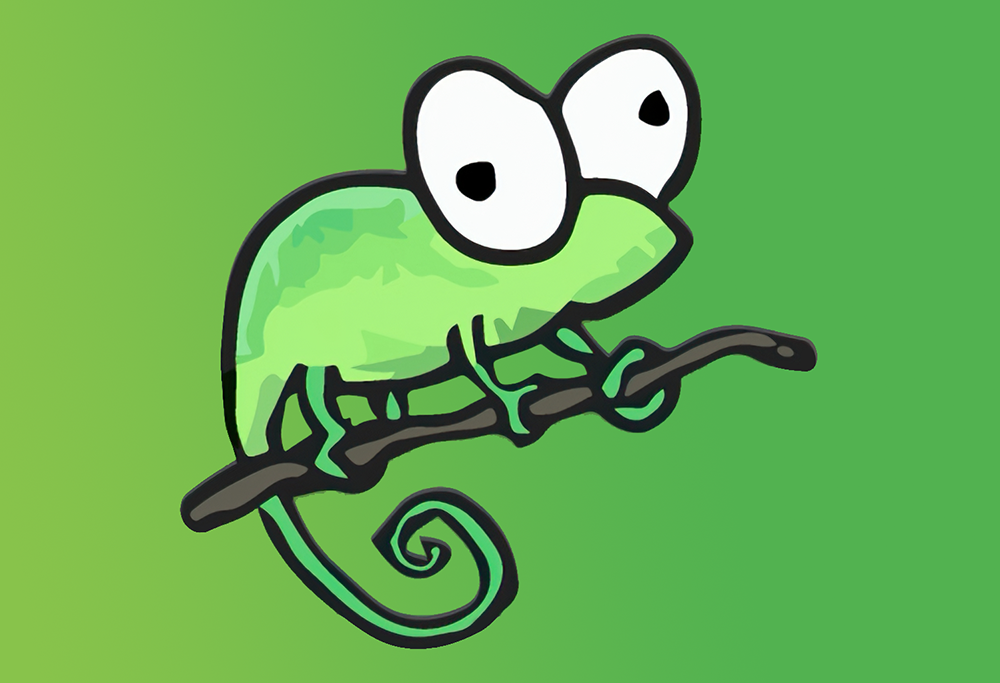
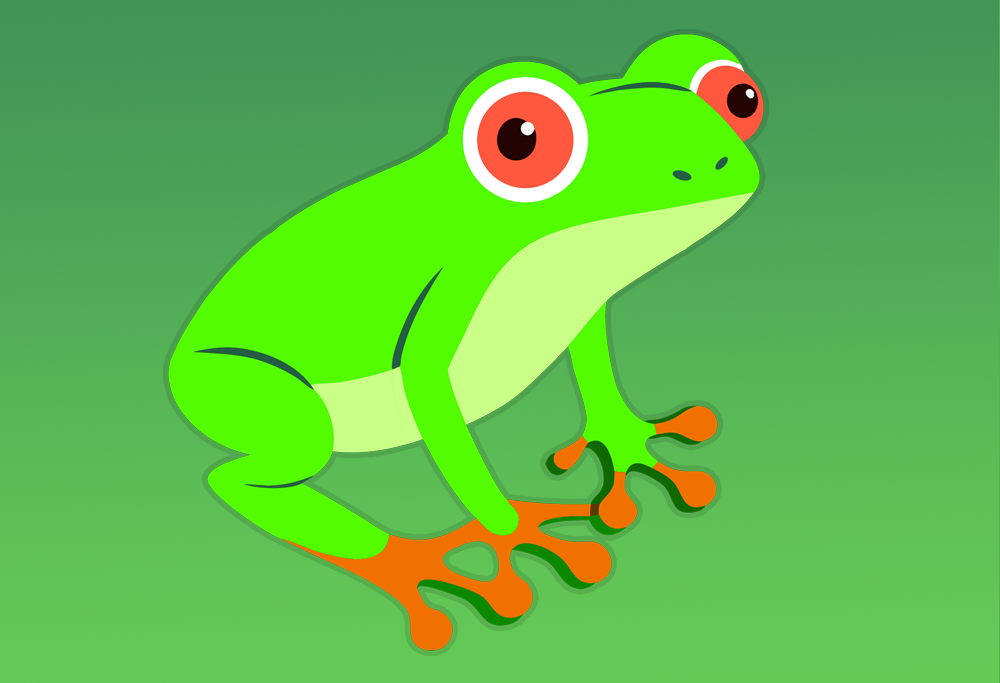
Rebrand Notepad++ to Nextpad++ on project pages

diff --git a/projects/NppBeads.md b/projects/NppBeads.md
@@ -1,26 +1,18 @@
 ---
-title: "Beads Viewer for Notepad++ and macOS"
+title: "Beads Viewer for Nextpad++ and macOS"
 date: 2026-04-28
 description: Issue Tracking That Works for AI Agents
-tags: [notepad++, ai, beads, beads viever]
+tags: [nextpad++, ai, beads, beads viever]
 ---
 
-![Chameleon walking on Beads](beads-v1/beads-walking-chameleon2.png)
+![Chameleon walking on Beads](beads-v1/beads-walking-frog.png)
 *Chameleon walking on Beads*
-
-<div style="text-align: center; margin-top: 2rem;">
-<a href="https://notepad-plus-plus-mac.org/news/" target="_blank" rel="noopener noreferrer" style="display: inline-flex; align-items: center; gap: 0.5rem; background-color: #34C759; color: white; font-weight: 600; font-size: 1.1rem; padding: 0.85rem 2.2rem; border-radius: 999px; text-decoration: none; transition: background-color 0.2s;">
-<svg width="22" height="22" viewBox="0 0 24 24" fill="none" stroke="currentColor" stroke-width="2.5" stroke-linecap="round" stroke-linejoin="round"><path d="M3 16.5v2.25A2.25 2.25 0 005.25 21h13.5A2.25 2.25 0 0021 18.75V16.5M16.5 12L12 16.5m0 0L7.5 12m4.5 4.5V3"/></svg>
-Download for macOS
-</a>
-</div>
-
 
 # Beads - a new Jira for Agentic AI
 
-The Notepad++ Beads plugin and the native macOS Beads viewer were inspired by two amazing people, [Steve Yegge](https://www.linkedin.com/in/steveyegge/) and [Jeffrey Emanuel](https://www.linkedin.com/in/jeffreyemanuel/), who did most of the heavy lifting. Steve built Beads. Jeff designed and built the original Beads Viewer, which I adapted to work as a plugin in Notepad++ and later decided to make into a standalone Mac app so people are free to use it without any editor. 
+The Nextpad++ Beads plugin and the native macOS Beads viewer were inspired by two amazing people, [Steve Yegge](https://www.linkedin.com/in/steveyegge/) and [Jeffrey Emanuel](https://www.linkedin.com/in/jeffreyemanuel/), who did most of the heavy lifting. Steve built Beads. Jeff designed and built the original Beads Viewer, which I adapted to work as a plugin in Nextpad++ and later decided to make into a standalone Mac app so people are free to use it without any editor. 
 
-However, the Notepad++ Beads Viewer is not only a viewer. It's more advanced and incorporates the work of Justin Dillon, who built the Beads extension for Visual Studio. The Beads Viewer I’m releasing today is likely more advanced than most Beads plugins available today. It includes editing and real-time sync functionality and works with both Beads JSONL files in read-only mode and Dolt DB in read-write mode.
+However, the Nextpad++ Beads Viewer is not only a viewer. It's more advanced and incorporates the work of Justin Dillon, who built the Beads extension for Visual Studio. The Beads Viewer I’m releasing today is likely more advanced than most Beads plugins available today. It includes editing and real-time sync functionality and works with both Beads JSONL files in read-only mode and Dolt DB in read-write mode.
 
 Please note that some screenshots contain examples of Beads from Jeff's public github product repos. 
 
@@ -34,8 +26,8 @@ The reason is that an agent has a context window, basically a fixed amount of me
 Beads is institutional memory for agents. NppBeads is what makes it pleasant to use without leaving your editor.
 
 
-![Notepad++ Beads Viewer Plugin Graph View](beads-v1/screen01.png)
-*Notepad++ Beads Viewer Plugin Graph View*
+![Nextpad++ Beads Viewer Plugin Graph View](beads-v1/screen01.png)
+*Nextpad++ Beads Viewer Plugin Graph View*
 
 
 
@@ -96,8 +88,8 @@ When the agent's internal memory gets compressed an hour later, that information
 
 Beads is more than a flat list. Each issue can be connected to others using ten different relationship types: `blocks`, `parent-child`, `conditional-blocks`, `waits-for`, `related`, `tracks`, `discovered-from`, `caused-by`, `validates`, and `supersedes`. That vocabulary is enough to describe how real engineering shapes itself: a child issue under an epic, a blocker that only applies in one condition, a follow-up that was found while fixing something else, a validation issue that confirms an earlier fix held.
 
-![Notepad++ Beads Viewer Plugin Graph View](beads-v1/dependency-graph.png)
-*Sample Notepad++ Beads Graph View*
+![Nextpad++ Beads Viewer Plugin Graph View](beads-v1/dependency-graph.png)
+*Sample Nextpad++ Beads Graph View*
 
 
 These relationships form a graph. These graphs can be huge. The graph powers a single useful question.. what can be worked on right now?
@@ -123,8 +115,8 @@ A few details make this real:
 
 **Review and rollback.** Because the whole store is in Dolt and Dolt is in the repo, the orchestration log is a git log. `git log .beads/` is a chronological record of every claim, every status change, every comment. `git blame` on a closed issue tells you which agent closed it and when. If an afternoon of agent work produced bad results, `git revert` on the relevant range of commits rolls the tracker state back atomically, and the code it was working on rolls back in the same operation. You watch the Kanban board in NppBeads fill with in-progress cards and drain into closed without telling any of the agents what to do.
 
-![Notepad++ Beads Viewer Plugin Board View](beads-v1/screen02.png)
-*Notepad++ Beads Viewer Plugin Board View*
+![Nextpad++ Beads Viewer Plugin Board View](beads-v1/screen02.png)
+*Nextpad++ Beads Viewer Plugin Board View*
 
 A point worth making up front, because it changes how you think about the whole tool: in a Beads-driven workflow, **most of the writing and most of the reading is done by agents, not humans.** Humans file the load-bearing issues. Epics. High-priority bugs the agent can't be trusted to scope on its own. Decisions that need a person to weigh in. Agents do everything else. 
 
@@ -225,27 +217,27 @@ Same pattern teams have used for years to bridge Jira and GitHub Issues. The dif
 Beads is like a red pill in the age of AI. You want to move at a slower pace, take a blue pill and stay on Jira. You want things to move at blazing speed, look at Beads. Any reporting you can think of can be added into the Beads Viewer/Editor to make it look like Jira and have executive level views that will refresh in real-time.
 
 
-## Where Notepad++ Beads comes in
+## Where Nextpad++ Beads comes in
 
-Beads itself is command line only. NppBeads adds a visual layer inside Notepad++. The "UI" is a docked side panel (a webview running locally inside the editor) that shows six different surfaces, all driven by `bd` calls under the hood.
+Beads itself is command line only. NppBeads adds a visual layer inside Nextpad++. The "UI" is a docked side panel (a webview running locally inside the editor) that shows six different surfaces, all driven by `bd` calls under the hood.
 
 A critical detail: NppBeads or macOS Beads app do not replace Beads. They are thin wrappers. Every read goes through `bd list --json` or `bd show --json`. Every write goes through `bd create`, `bd update`, `bd close`, `bd comment add`, or friends. There's no NppBeads database, no separate sync process, no caching beyond what `bd` itself does. If you do something via NppBeads, the next person who runs `bd list` from a terminal sees it. If a teammate's agent runs `bd update` from a script, your panel refreshes within two seconds.
 
 That hard rule (everything is `bd`) means NppBeads doesn't lock you in. Use it in the morning, switch to a terminal in the afternoon, let an agent run overnight, come back the next morning. There's no merge conflict because there's nothing to merge. The single source of truth is whatever `bd` says. NppBeads is one of several front ends. 
 
-The plugin and macOS app exist for the same reason: to remove a context switch. Dropping out of Notepad++ or MacViewer into a terminal to run `bd update` is small individually but multiplicative across a day. After a couple of weeks of running Beads from the terminal alone, the friction wins and people stop updating statuses. A stand-alone macOS viewer can be amazing for management to monitor a project.   
+The plugin and macOS app exist for the same reason: to remove a context switch. Dropping out of Nextpad++ or MacViewer into a terminal to run `bd update` is small individually but multiplicative across a day. After a couple of weeks of running Beads from the terminal alone, the friction wins and people stop updating statuses. A stand-alone macOS viewer can be amazing for management to monitor a project.   
 
 
 ## Installing Beads Plugin
 
-Best way to install NppBeads plugin from the Notepad++ Plugins Admins
+Best way to install NppBeads plugin from the Nextpad++ Plugins Admins
 
-![Notepad++ Beads Plugin Admin](beads-v1/plugin-admin.png)
-*Notepad++ Beads in Plugin Admin*
+![Nextpad++ Beads Plugin Admin](beads-v1/plugin-admin.png)
+*Nextpad++ Beads in Plugin Admin*
 
-Restart Notepad++. The plugin shows up as a main toolbar icon 
+Restart Nextpad++. The plugin shows up as a main toolbar icon 
 
-![Notepad++ Beads Plugin launched first time](beads-v1/toolbar-icon.gif) and under `Plugins → NppBeads` with three menu items at first (Show Beads panel, Reload issues, Reveal .beads/ in Finder) and a few more once you've used it (Jump to bead under caret, Copy bead id, Create issue from selection). The default keyboard shortcut for opening the panel is Cmd-Option-Shift-B. If that conflicts with anything in your setup, rebind via the standard NPP shortcut manager.
+![Nextpad++ Beads Plugin launched first time](beads-v1/toolbar-icon.gif) and under `Plugins → NppBeads` with three menu items at first (Show Beads panel, Reload issues, Reveal .beads/ in Finder) and a few more once you've used it (Jump to bead under caret, Copy bead id, Create issue from selection). The default keyboard shortcut for opening the panel is Cmd-Option-Shift-B. If that conflicts with anything in your setup, rebind via the standard NPP shortcut manager.
 
 
 If you'd rather have a stand-alone macOS Beads Viewer application, you can download the 2MB DMG install (top of this page), launch it and simply drag the Beads Viewer App into your Mac Applications folder.
@@ -263,17 +255,17 @@ bd version   # confirms install
 
 Without `bd` the plugin runs in read-only mode. It reads `.beads/issues.jsonl` (the export file Beads maintains for compatibility) and shows you the data, but every edit attempt fails with a "ReadOnly" error. The status bar at the bottom of the panel tells you which mode you're in: `bd v1.0.2` or similar means full mode, `read-only (JSONL)` means fallback.
 
-If you launch Notepad++ from Finder rather than from a terminal, NPP inherits a sparse `PATH` that often doesn't include `/opt/homebrew/bin`. NppBeads handles this by checking common install locations directly (`/opt/homebrew/bin`, `/usr/local/bin`, `~/bin`, `~/.local/bin`, `~/go/bin`) before falling back to the inherited `PATH`. So `brew install beads` followed by an NPP relaunch should just work.
+If you launch Nextpad++ from Finder rather than from a terminal, NPP inherits a sparse `PATH` that often doesn't include `/opt/homebrew/bin`. NppBeads handles this by checking common install locations directly (`/opt/homebrew/bin`, `/usr/local/bin`, `~/bin`, `~/.local/bin`, `~/go/bin`) before falling back to the inherited `PATH`. So `brew install beads` followed by an NPP relaunch should just work.
 
 
-NppBeads Notepad++ plugin and macOS App have exactly the same functionality, codebase and live in the same repo. I make updates to NppBeads plugin, the macOS app gets all updates automatically. They look exactly the same. 
+NppBeads Nextpad++ plugin and macOS App have exactly the same functionality, codebase and live in the same repo. I make updates to NppBeads plugin, the macOS app gets all updates automatically. They look exactly the same. 
 
 ## The first time you open it
 
 Open the panel with Cmd-Option-Shift-B (or Plugins → NppBeads → Show Beads panel). You land on the Dashboard view by default.
 
 
-![Notepad++ Beads Plugin launched first time](beads-v1/open-first-time.png) *Notepad++ Beads Plugin launched first time*
+![Nextpad++ Beads Plugin launched first time](beads-v1/open-first-time.png) *Nextpad++ Beads Plugin launched first time*
 
 If a file is open that lives anywhere inside a Beads project (the panel walks up from the file's directory looking for a `.beads/` sibling, stopping at your home folder), the plugin auto-binds to that project. The status bar shows the project name, issue counts (open, blocked, closed, total), and the backend mode.
 
@@ -347,7 +339,7 @@ The two metrics most useful in practice:
 
 **Betweenness centrality** colors bridge nodes red. A high-betweenness issue connects otherwise-independent regions of the graph. Resolving it unlocks parallel work in streams that would otherwise stay parallel-but-stuck. Different from PageRank: PageRank values depth, betweenness values bridging. They surface different short lists.
 
-![Graph view](beads-v1/graph-view01.png) *Graph view in Notepad++ Beads plugin pointed to github.com/Dicklesworthstone beads_rust repo*
+![Graph view](beads-v1/graph-view01.png) *Graph view in Nextpad++ Beads plugin pointed to github.com/Dicklesworthstone beads_rust repo*
 
 The graph is also where the panel's theme awareness shows up. Switch to light mode (theme button in the toolbar) and the canvas redraws with a white background and a darkened version of every status, priority, and accent color, so contrast remains readable. Same graph, dark or light, within a couple of frames.
 
@@ -355,7 +347,7 @@ The graph is also where the panel's theme awareness shows up. Switch to light mo
 
 The kanban surface. Four columns by default: Open, In Progress, Blocked, Closed. Each card is an issue. Drag a card to a new column, that column's status is committed via `bd update --status`. Optimistic UI: the card moves immediately, then either confirms (toast) or rolls back (toast plus original position) depending on what `bd` reports. 
 
-![The Board view](beads-v1/board-view01.png) *The Board view in Notepad++ Beads plugin pointed to github.com/Dicklesworthstone beads_rust repo*
+![The Board view](beads-v1/board-view01.png) *The Board view in Nextpad++ Beads plugin pointed to github.com/Dicklesworthstone beads_rust repo*
 
 There's a **Raw / Effective** toggle in the top-left header of the Board. It changes which column each card lives in without touching the underlying data, and it's worth understanding why the distinction exists.
 
@@ -377,7 +369,7 @@ The view is read-only on click on purpose. Nothing in a row navigates you to the
 Activity also drives the "● N new" indicator in the status bar. Every time you visit Activity, the panel records the current timestamp. Later updates that happen after that timestamp (your own edits, agents, teammates) get counted in the badge. Visiting Activity again resets the counter. Quitting and reopening NPP preserves the count correctly across sessions.
 
 ![The Activity view](beads-v1/activity-view01.png)
-*The Activity view in Notepad++ Beads plugin pointed to github.com/Dicklesworthstone beads_rust repo*
+*The Activity view in Nextpad++ Beads plugin pointed to github.com/Dicklesworthstone beads_rust repo*
 
 ## Creating and editing beads
 
@@ -466,7 +458,7 @@ The second is a two-second poll of `bd list --all --json`. This catches changes 
 
 Both mechanisms are coordinated. They both call the same internal "refresh" path, which is idempotent and reconciles optimistic UI state with confirmed state.
 
-The poll pauses when Notepad++ isn't focused. Switch to a browser, the panel stops polling. Come back, the poll resumes and picks up any changes within one cycle. This matters mostly for the case where an agent is running in a terminal you're not watching: you don't want NPP burning `bd` processes while you're working in another app.
+The poll pauses when Nextpad++ isn't focused. Switch to a browser, the panel stops polling. Come back, the poll resumes and picks up any changes within one cycle. This matters mostly for the case where an agent is running in a terminal you're not watching: you don't want NPP burning `bd` processes while you're working in another app.
 
 There's also a "drag-guard" on the Board view. If a refresh fires while you're mid-drag of a card, the render is deferred until your drag ends. Without this, the dragged card's DOM node would get replaced by the refresh and the drag would die in your hand. An eight second watchdog releases the guard if the drag-end event somehow doesn't fire (drop outside the window, modifier-key issues).
 
@@ -492,7 +484,7 @@ A few things NppBeads doesn't do, on purpose or out of necessity:
 
 - **No cross-repo aggregated view.** Each `.beads/` is independent. If   you work across two repos with two trackers, you switch projects in   the dropdown to switch trackers. There's no "all my open work   across all projects" view. Beads supports cross-repo dependencies   via `external:other-project:bd-X` references, but NppBeads doesn't   render them as live links; they appear as plain text in the   dependency list.
 
-- **No hover preview on bead-ids.** This is a feature I may implement in the Notepad++ editor.
+- **No hover preview on bead-ids.** This is a feature I may implement in the Nextpad++ editor.
 
 
 - **Per-issue comments don't auto-refresh while the modal is open.**   The Board and Activity views auto-refresh on `bd` activity. The   detail modal's comments thread does not. If a teammate posts a   comment while your modal is open, you won't see it until you close   and reopen the modal. Deliberate scope decision (the alternative is   more bridge plumbing for a case that doesn't come up often) but a   real limitation.

diff --git a/projects/notepad-plus-plus-mac.md b/projects/notepad-plus-plus-mac.md
@@ -1,29 +1,29 @@
 ---
-title: Notepad++ for macOS
+title: Nextpad++ for macOS
 date: 2026-04-07
-description: Native macOS verion of Notepad++ Source code and Text editor
+description: Native independent macOS verion of Notepad++ Source code and Text editor
 tags: [macOS, open-source, code-editor]
 ---
 
-![Notepad++ running on macOS](notepad-plus-plus-mac/npp_green.png)
+![Nextpad++ running on macOS](notepad-plus-plus-mac/npp_green.png)
 
 
-Notepad++ has been one of the most popular source code editors on Windows for almost two decades, with close to 500 million downloads, it's loved by developers for its speed, simplicity, and extensive language support. I always wanted to have the same simple yet powerful editor on my Mac. For 4 months now, I have been using multiagent AI workflows and in mid-March 2026 I decided to take on the task of porting Notepad++ to macOS as a native application. The macOS version retains most that made the original great, which is syntax highlighting for 80+ programming languages, powerful regex-based search and replace, split view editing, macro recording, and a plugin ecosystem. I think that gradually it will be feeling right at home on the Mac. It runs on macOS 11 and later, launches instantly on Intel and M-series chips.
+Notepad++ has been one of the most popular source code editors on Windows for almost two decades, with millions downloads, it's loved by developers for its speed, simplicity, and extensive language support. I always wanted to have the same simple yet powerful editor on my Mac. For 4 months now, I have been using multiagent AI workflows and in March 2026 I decided to take on the task of porting Notepad++ to macOS as a native independent application. The macOS version called Nextpad for Mac retains most that made the original great, which is syntax highlighting for 80+ programming languages, powerful regex-based search and replace, split view editing, macro recording, and a plugin ecosystem. I think that gradually it will be feeling right at home on the Mac. It runs on macOS 11 and later, launches instantly on Intel and M-series chips.
 
 
-![Notepad++ running on macOS](notepad-plus-plus-mac/npp_screen03.png)
+![Nextpad++ running on macOS](notepad-plus-plus-mac/npp_screen03.png)
 
 
-There are still quite a few quirks to iron out. Panels are still not dockable. There are not as many preferences compared to the Windows version. But there are a few cool things like Shift+Cmd+P which opens spotlight search in Notepad++ macOS version. I also added a few  more languages to Notepad++ localization bringing it up to 137 from 94.   
+There are still quite a few quirks to iron out. Panels are still not dockable. There are not as many preferences compared to the Windows version. But there are a few cool things like Shift+Cmd+P which opens spotlight search in Nextpad++ macOS version. I also added a few  more languages to Nextpad++ localization bringing it up to 137 from 94.   
 
 
 ![Notepad++ running on macOS](notepad-plus-plus-mac/npp_screen02.png)
 
 
-Under the hood, Notepad++ for macOS is written in Objective-C++ using platform-native APIs and the [Scintilla](https://www.scintilla.org/) editing component, the same engine that powers the Windows version. This ensures high performance and a small footprint without relying on emulation layers or Electron wrappers. The project is open source under the [GNU General Public License](https://www.gnu.org/licenses/gpl-3.0.html), and plugin migration from the Windows ecosystem is ongoing. The editor also ships with support for 137 interface languages out of the box. You can download it and learn more at [notepad-plus-plus-mac.org](https://notepad-plus-plus-mac.org).
+Under the hood, Nextpad++ for macOS is written in Objective-C++ using platform-native APIs and the [Scintilla](https://www.scintilla.org/) editing component, the same engine that powers the Windows version. This ensures high performance and a small footprint without relying on emulation layers or Electron wrappers. The project is open source under the [GNU General Public License](https://www.gnu.org/licenses/gpl-3.0.html), and plugin migration from the Windows ecosystem is ongoing. The editor also ships with support for 137 interface languages out of the box. You can download it and learn more at [notepad-plus-plus-mac.org](https://notepad-plus-plus-mac.org).
 
 
-![Notepad++ running on macOS](notepad-plus-plus-mac/npp_screen01.png)
+![Nextpad++ running on macOS](notepad-plus-plus-mac/npp_screen01.png)
 
 <div style="text-align: center; margin-top: 2rem;">
 <a href="https://notepad-plus-plus-mac.org" target="_blank" rel="noopener noreferrer" style="display: inline-flex; align-items: center; gap: 0.5rem; background-color: #34C759; color: white; font-weight: 600; font-size: 1.1rem; padding: 0.85rem 2.2rem; border-radius: 999px; text-decoration: none; transition: background-color 0.2s;">